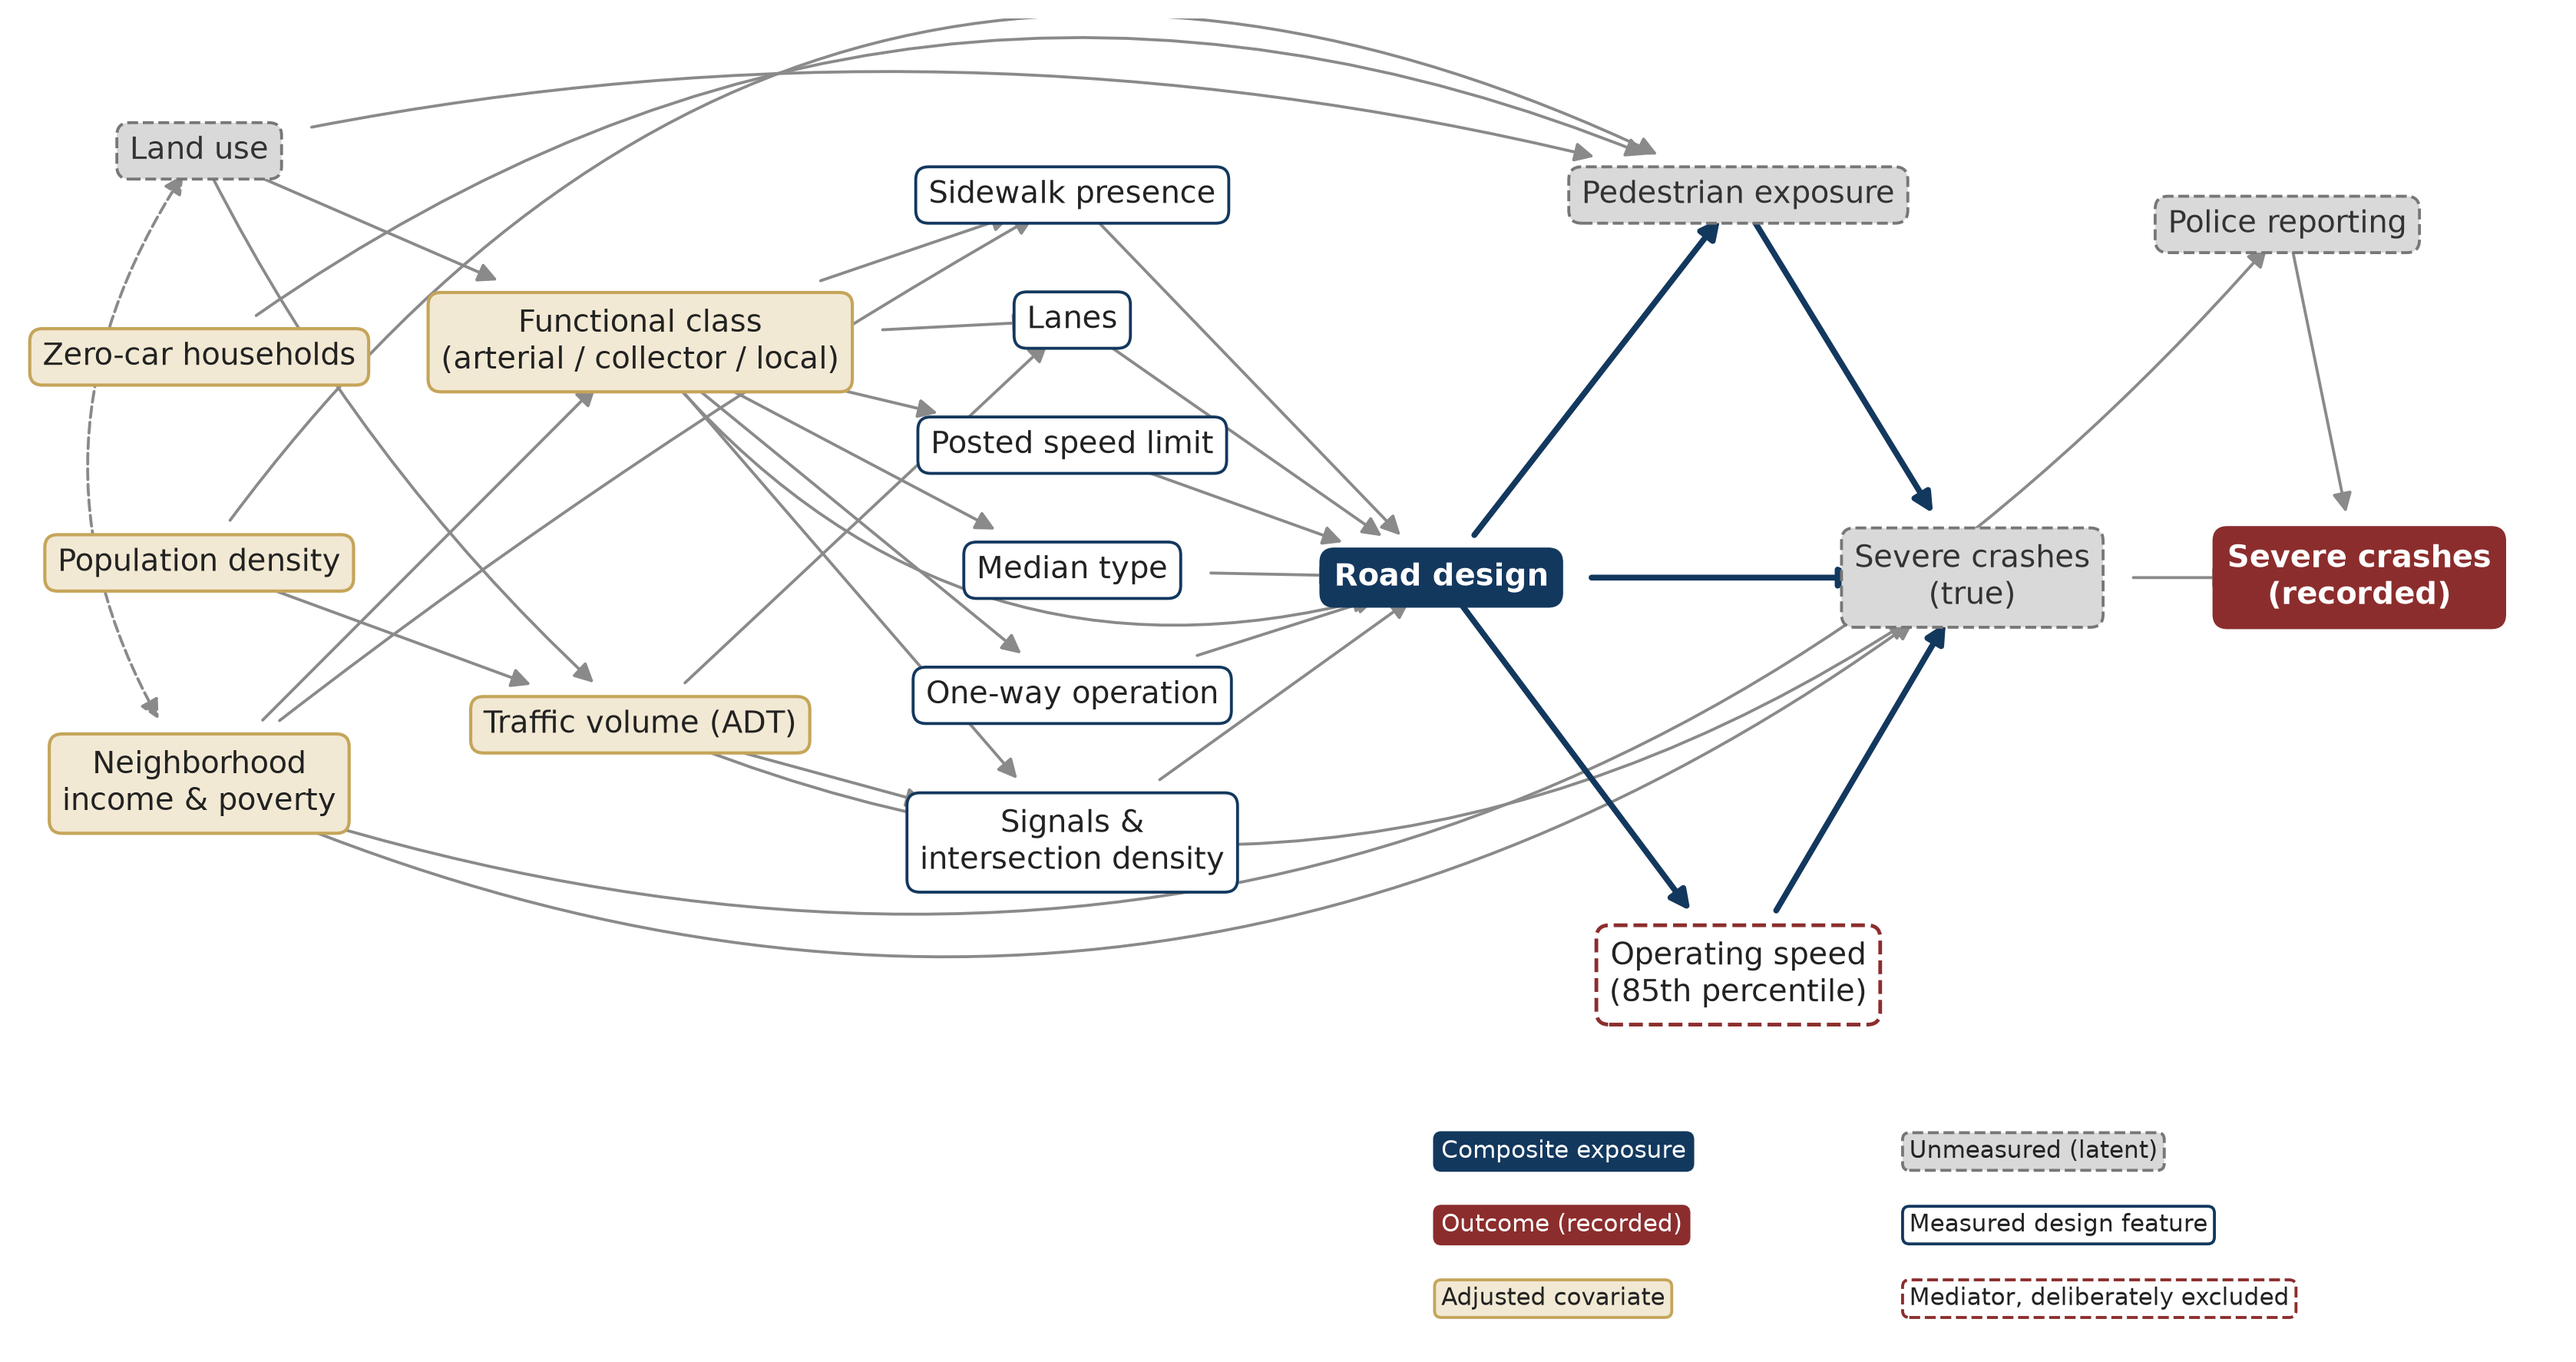
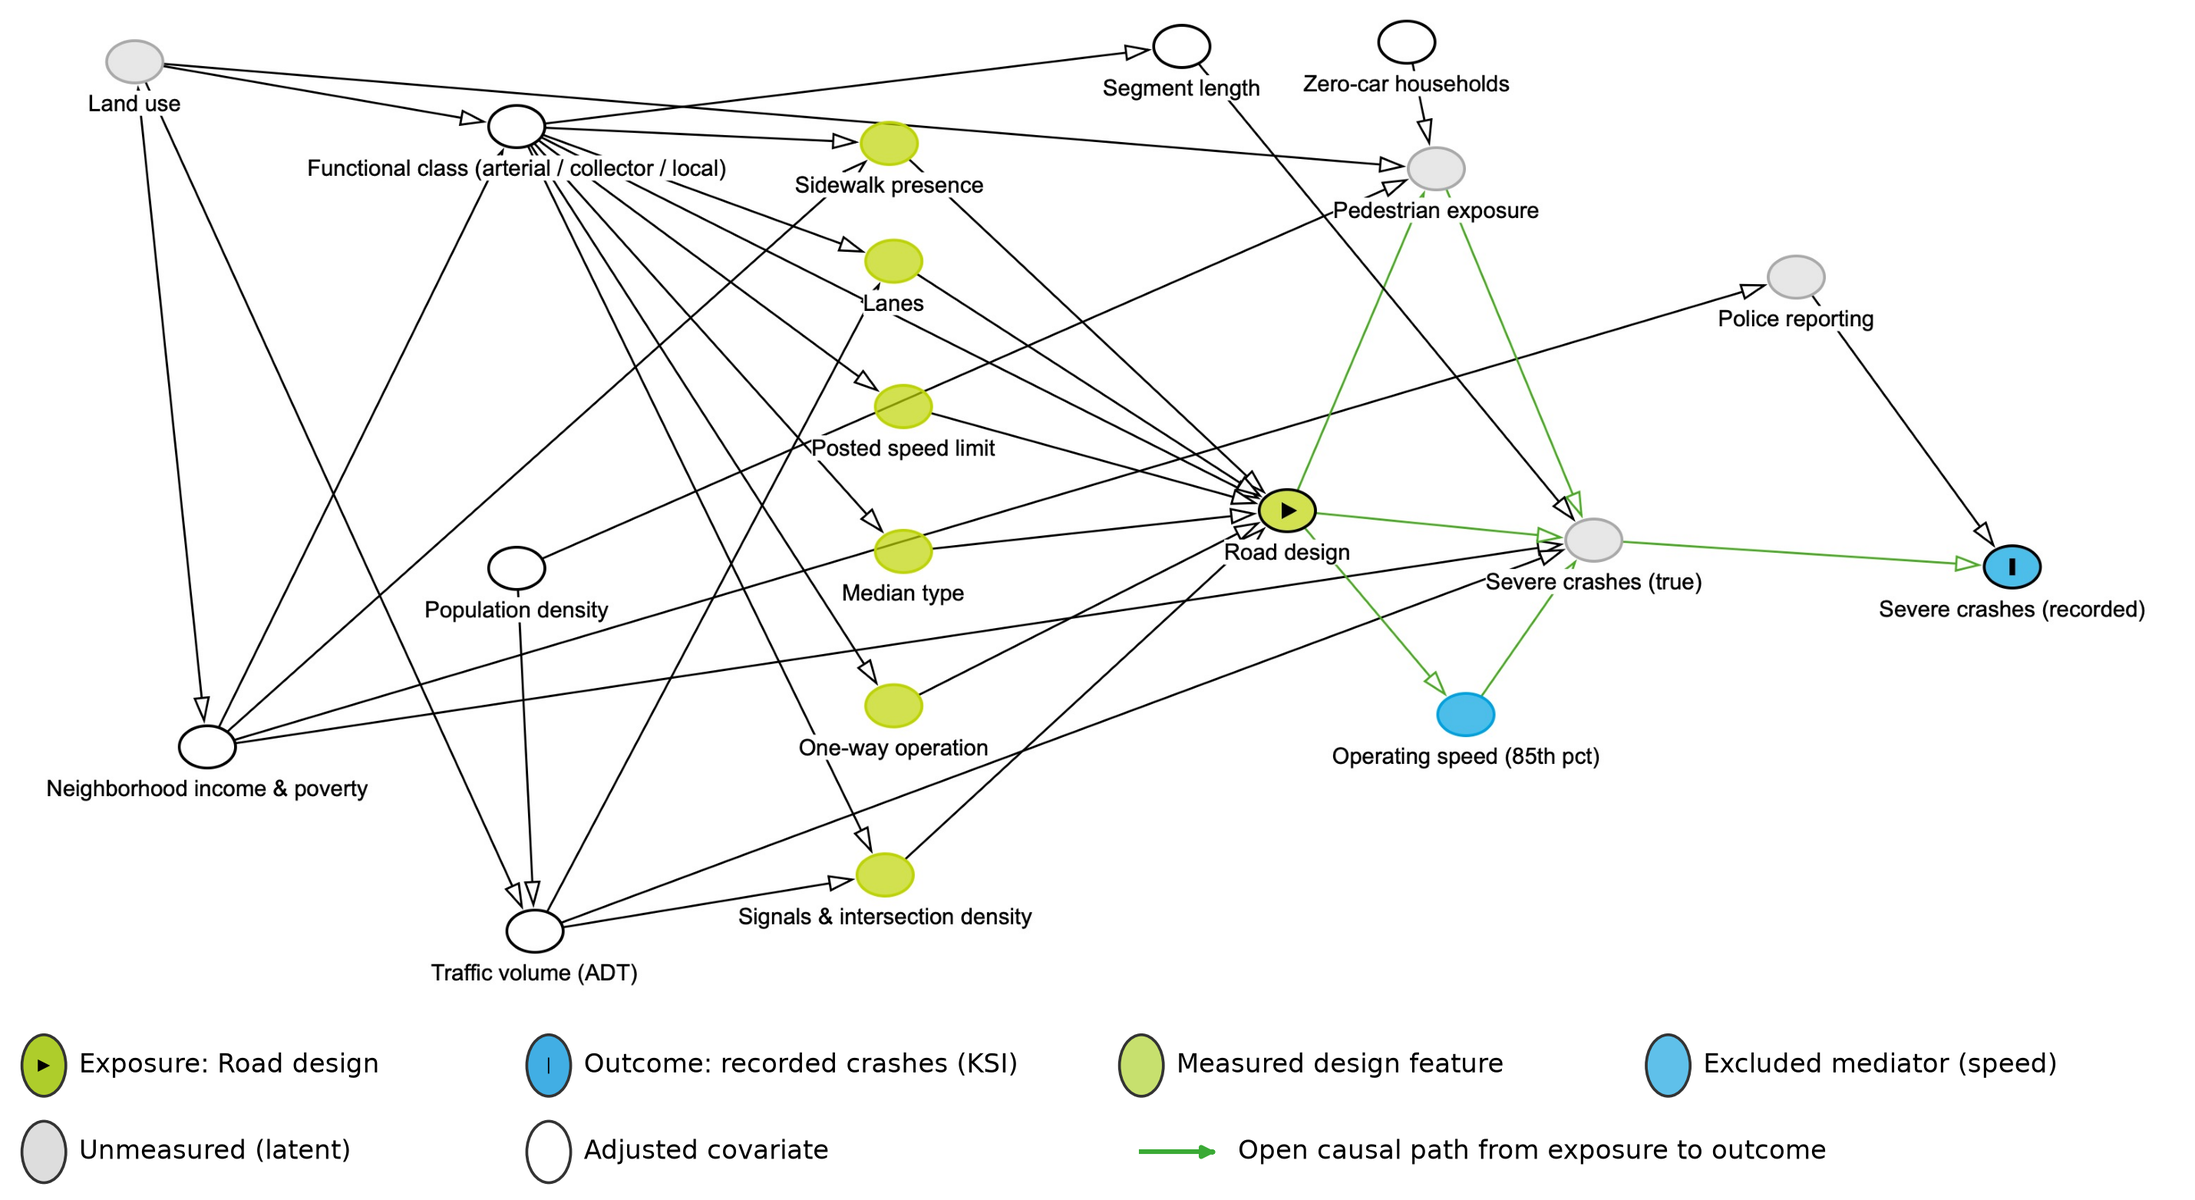
Figure 1: adopt the author's dagitty render (trimmed, with legend)
finish_dag_figure.py trims the dagitty.net export's whitespace and adds a
legend for dagitty's color conventions (exposure/outcome markers, ancestor
tints, latents, adjusted covariates, open causal paths). dag.txt remains
the layered specification; plot_dag.py retained as the custom-render
alternative.

diff --git a/src/finish_dag_figure.py b/src/finish_dag_figure.py
@@ -1,0 +1,79 @@
+"""Paper Figure 1: finish the dagitty.net export (trim + legend).
+
+The author renders the DAG in dagitty (reports/dag.txt is the spec; the
+export is saved as reports/dagitty_export.jpeg). This script trims the
+export's whitespace and adds a legend for dagitty's color conventions.
+
+Outputs: reports/dag.png
+"""
+
+import matplotlib
+matplotlib.use("Agg")
+import matplotlib.pyplot as plt
+from matplotlib.patches import Ellipse
+from PIL import Image, ImageChops
+
+import config as cfg
+
+SRC = cfg.REPORTS / "dagitty_export.jpeg"
+
+# dagitty's palette
+EXPO = "#AECD2B"      # exposure (with black triangle)
+ANC_EXPO = "#C7E06E"  # ancestor of exposure
+OUTC = "#41AEE4"      # outcome (with black bar)
+ANC_OUT = "#5FC0EA"   # ancestor of outcome
+LATENT = "#DDDDDD"
+WHITE = "#FFFFFF"
+
+im = Image.open(SRC).convert("RGB")
+bg = Image.new("RGB", im.size, (255, 255, 255))
+bbox = ImageChops.difference(im, bg).getbbox()
+pad = 25
+im = im.crop((max(0, bbox[0] - pad), max(0, bbox[1] - pad),
+              min(im.width, bbox[2] + pad), min(im.height, bbox[3] + pad)))
+
+w, h = im.size
+LEG_H = 0.16  # legend fraction of image height
+fig_w = 13.0
+fig_h = fig_w * h / w * (1 + LEG_H)
+fig = plt.figure(figsize=(fig_w, fig_h))
+ax = fig.add_axes((0, LEG_H, 1, 1 - LEG_H))
+ax.imshow(im)
+ax.axis("off")
+
+leg = fig.add_axes((0, 0, 1, LEG_H))
+leg.set_xlim(0, 100)
+leg.set_ylim(0, 10)
+leg.axis("off")
+
+items_row1 = [
+    (EXPO, "▶", "Exposure: Road design"),
+    (OUTC, "❘", "Outcome: recorded crashes (KSI)"),
+    (ANC_EXPO, "", "Measured design feature"),
+    (ANC_OUT, "", "Excluded mediator (speed)"),
+]
+items_row2 = [
+    (LATENT, "", "Unmeasured (latent)"),
+    (WHITE, "", "Adjusted covariate"),
+]
+xs1 = [2, 25, 52, 76]
+xs2 = [2, 25]
+for (color, sym, label), x in zip(items_row1, xs1):
+    leg.add_patch(Ellipse((x, 7), 2.0, 3.2, facecolor=color,
+                          edgecolor="#333333", lw=1.2))
+    if sym:
+        leg.text(x, 7, sym, ha="center", va="center", fontsize=7)
+    leg.text(x + 1.6, 7, label, va="center", fontsize=11)
+for (color, sym, label), x in zip(items_row2, xs2):
+    leg.add_patch(Ellipse((x, 2.5), 2.0, 3.2, facecolor=color,
+                          edgecolor="#333333", lw=1.2))
+    leg.text(x + 1.6, 2.5, label, va="center", fontsize=11)
+leg.plot([52.0, 55.0], [2.5, 2.5], color="#3AAA35", lw=2)
+leg.annotate("", xy=(55.6, 2.5), xytext=(55.0, 2.5),
+             arrowprops=dict(arrowstyle="-|>", color="#3AAA35", lw=2))
+leg.text(56.4, 2.5, "Open causal path from exposure to outcome",
+         va="center", fontsize=11)
+
+out = cfg.REPORTS / "dag.png"
+fig.savefig(out, dpi=220, facecolor="white")
+print(f"wrote {out}")
